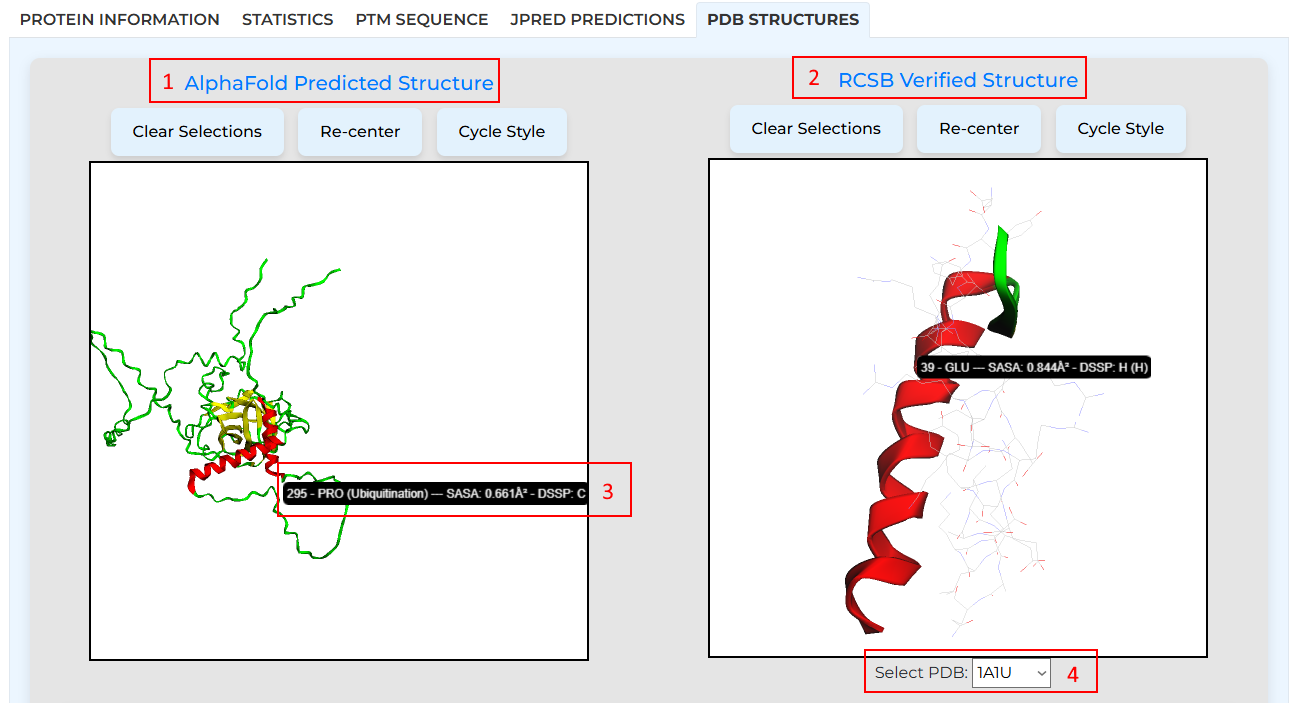
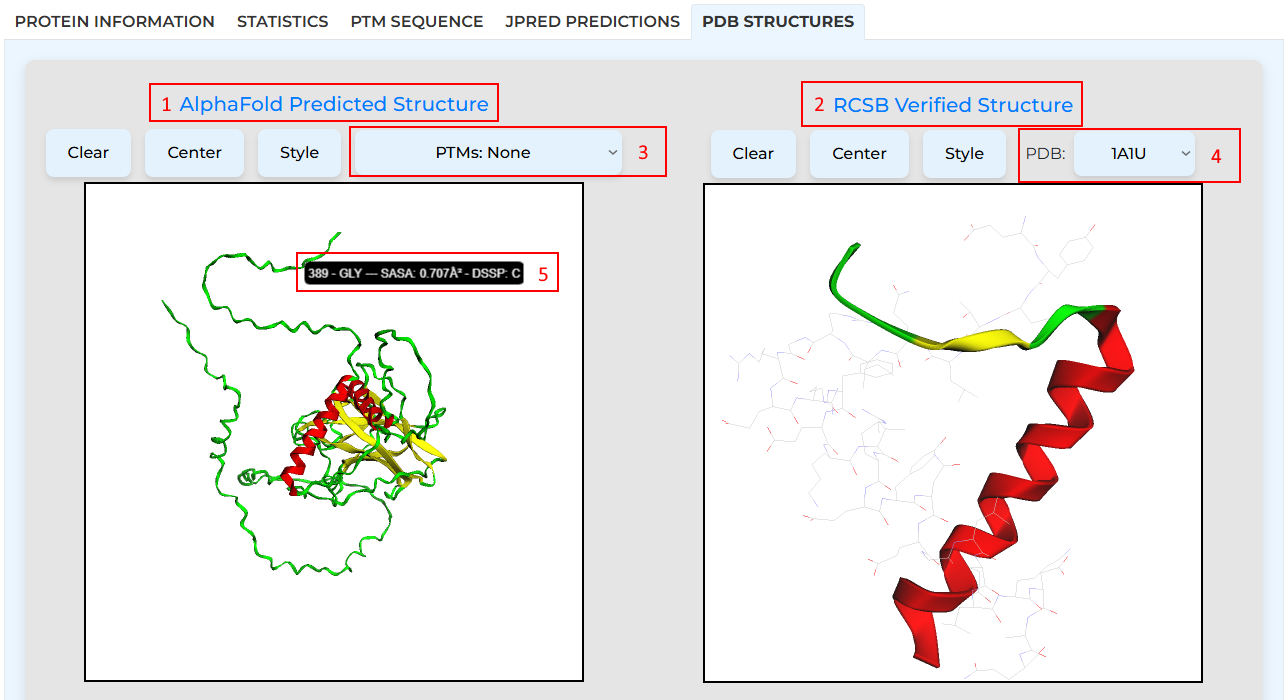
Updated image + documentation

diff --git a/server/templates/docs.html b/server/templates/docs.html
@@ -135,10 +135,13 @@
             the response from JPred's server when it is done. Once the job is completed, we fetch and process the results.
         </p>
         <p style="text-align: justify;">
-            Since JPred also provides hyperlink-embedded alignments, we have shown them as a separate page ([<a style="color: #ff0000">1</a>]).
+            As JPred also provides hyperlink-embedded alignments, we have shown them as a separate page ([<a style="color: #ff0000">1</a>]).
             As for the prediction, JPred's own format is followed. Upon clicking on a PTM ([<a style="color: #ff0000">2</a>]), the entire column
             is highlighted to make it easier for the user to see the secondary structure, any coils, the residue burial percentage,
             and the confidence scores. Finally, all of the aforementioned information can be downloaded as a JSON file ([<a style="color: #ff0000">3</a>]).
+        </p>
+        <p style="text-align: justify;">
+            Please note, however, that <strong>JPred can only cater sequences up to 800 residues in length</strong>. The authors recommend to split up the sequence into smaller windows but there is a chance the results might not be as reliable.
         </p>
         <p style="text-align: justify;">
             Finally, we also present predicted and experimentally verified structures for the protein observed from AlphaFoldDB and RCSB Database respectively:
@@ -149,13 +152,22 @@
         <p style="text-align: justify;">
             [<a style="color: #ff0000">1</a>] and [<a style="color: #ff0000">2</a>] are hyperlinks to the respective database for extensive additional
             information. We use 3Dmol.js to view the PDB structures. Some buttons are provided to cycle through three different styles, 
-            clear all selections made by the user, and re-center the render should the user lose sight of the structure. You can interact with the structure by 
-            clicking on a residue, at which point it will display a label that contains the position of the residue in the sequence, the <strong>3-letter code for the residue</strong>,
+            clear all selections made by the user, and re-center the render should the user lose sight of the structure.
+            For the AlphaFold sequence, you can view the PTMs by selecting one PTM or all PTMs from the dropdown in [<a style="color: #ff0000">3</a>].
+            Additionally, since all PDBs in the RCSB Protein Data Bank are queried using the UniProt Accession Number, you can select from one of many possible PDB IDs in [<a style="color: #ff0000">4</a>].
+        </p>
+        <p style="text-align: justify;">
+            You can interact with the structure by clicking on a residue, at which point it will display a label that contains the position of the residue in the sequence, the <strong>3-letter code for the residue</strong>,
             any and all <strong>PTMs that have been observed on the residue</strong>, the <strong>Solvent Accessible Surface Area</strong> (SASA) in square Angstroms (Å²) (calculated using the Shrake-Rupley
             algorithm), and the <strong>DSSP-calculated secondary structure of the PDB</strong> (the letter after DSSP denotes the simplified structure, while the letter inside the
-            parentheses denotes the detailed structure of the residue, if any), all observed in [<a style="color: #ff0000">3</a>].
-            Additionally, for RCSB database, since all PDBs are queried using the UniProt Accession Number, you can select from one of many possible RCSB PDBs in [<a style="color: #ff0000">4</a>].
+            parentheses denotes the detailed structure of the residue, if any), all observed in [<a style="color: #ff0000">5</a>].
         </p>
+        <p>
+            In the PDB renders above, <span style="color: rgb(0, 191, 0); font-weight: 700;">green</span> chains represent unstructured regions of coils,
+            <span style="color: rgb(198, 168, 0); font-weight: 700;">yellow</span> chains represent β-sheets (or beta strands), and
+            <span style="color: rgb(232, 0, 0); font-weight: 700;">red</span> chains represent α-helices.
+        </p>
+
         <p style="text-align: justify;">
             Finally, the information can also be viewed in a tabular form:
         </p>
